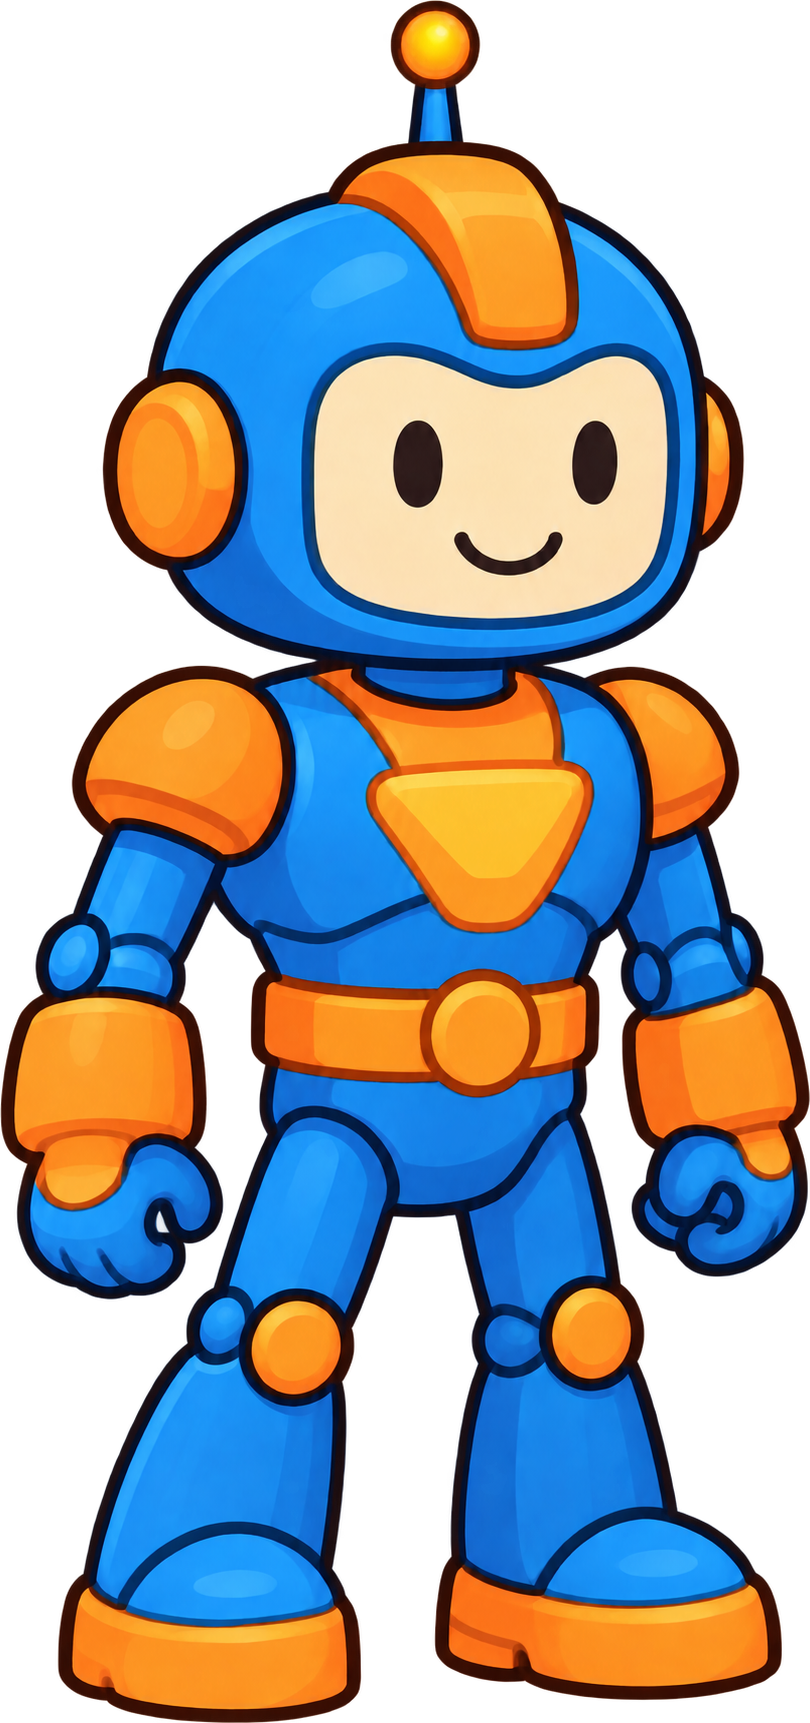
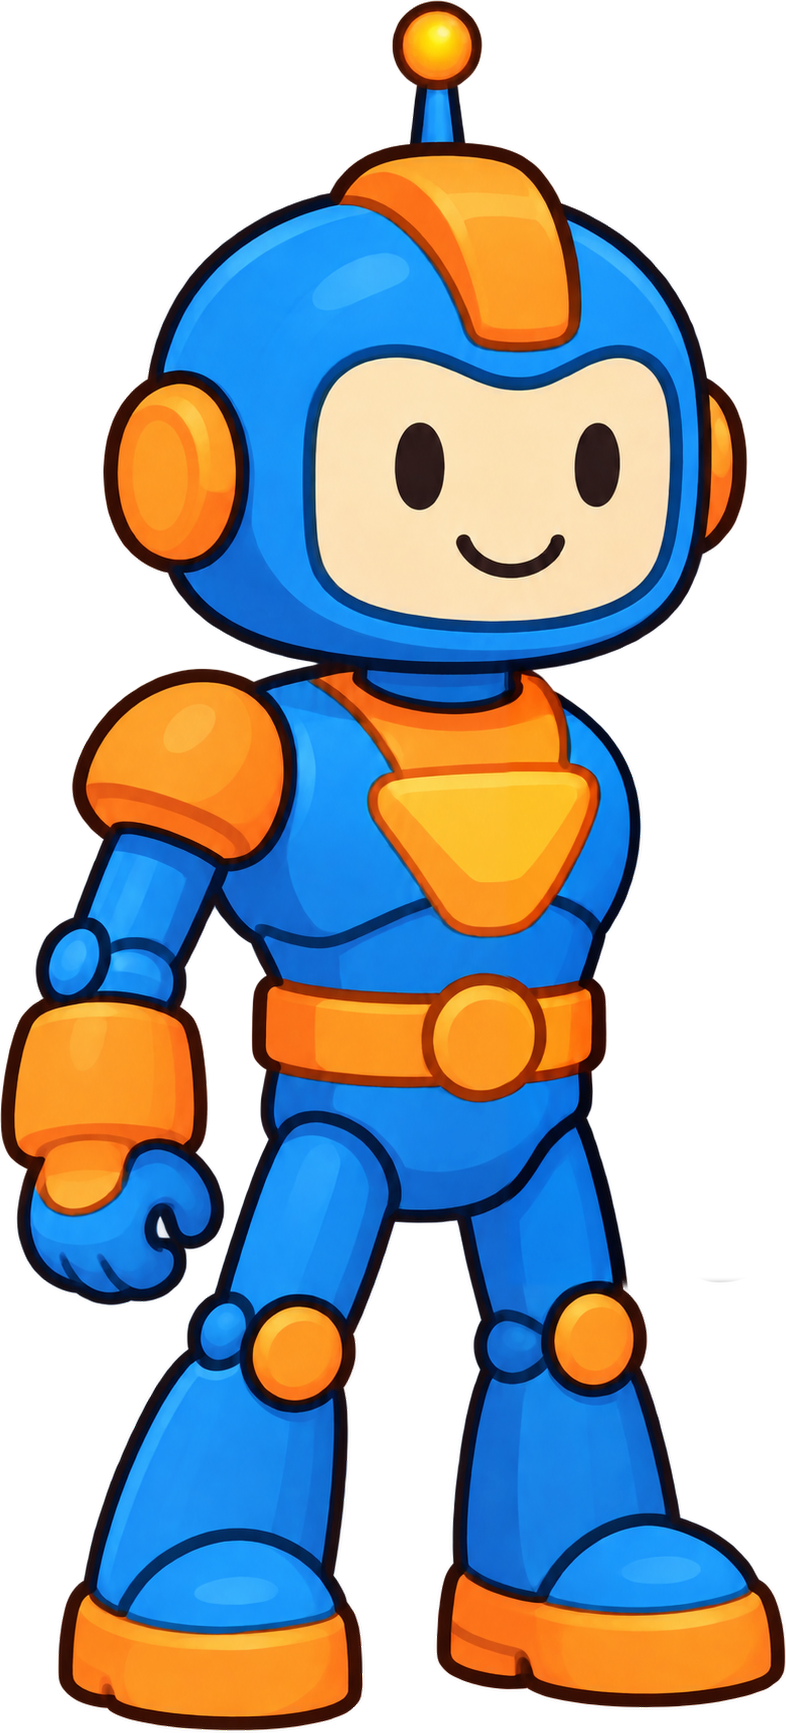
Toy box robot: arm, antenna light, blink

diff --git a/scripts/top-art/build.py b/scripts/top-art/build.py
@@ -48,7 +48,9 @@ def build(scene):
         # paint over a region of the base with the original hero's pixels (e.g. erase a baked-in tail), feathered
         bf=cfg['base_fix']; x0,y0,x1,y1=bf['region']; fe=bf.get('feather',10)
         full=np.zeros((H,W,4),np.uint8); b=piece(f"{scene}-{cfg['base']}"); full=warp_to_ref(b,register(b,ref),ref.shape).astype(np.float32)
-        src=ref.astype(np.float32); m=np.zeros((H,W),np.float32); m[y0+fe:y1-fe,x0+fe:x1-fe]=1; m=cv2.GaussianBlur(m,(0,0),fe/2.5)[:,:,None]
+        if bf.get('src'): sp=piece(f"{scene}-{bf['src']}"); src=warp_to_ref(sp,register(sp,ref),ref.shape).astype(np.float32)
+        else: src=ref.astype(np.float32)
+        m=np.zeros((H,W),np.float32); m[y0+fe:y1-fe,x0+fe:x1-fe]=1; m=cv2.GaussianBlur(m,(0,0),fe/2.5)[:,:,None]
         full=(full*(1-m)+src*m).astype(np.uint8)
         rig['base']=place_crop(full,dict(scale=1.0,tx=0.0,ty=0.0),f'{scene}-base.webp',down=False)
     for pi,p in enumerate(cfg.get('parts',[])):

diff --git a/scripts/top-art/rigs.py b/scripts/top-art/rigs.py
@@ -35,7 +35,8 @@ RIGS={
    patches=[dict(frame='eyes-open',region=(340,500,800,830),anim='peek')],
    fx=[dict(sheet='bubbles',crop=(0,0,1,.55),dil=400,x=655,y=700,w=120,at=(.5,1),align='bottom',anim='bubbles',dur=5,delay=0),
        dict(sheet='bubbles',crop=(0,0,1,.55),dil=400,x=655,y=700,w=120,at=(.5,1),align='bottom',anim='bubbles',dur=5,delay=2.5)]),
- 'toy-box':dict(base='with-antenna',
+ 'toy-box':dict(base='with-antenna',base_fix=dict(region=(520,700,850,1340),feather=8,src='no-arm'),
    parts=[dict(name='arm',base='no-arm',ref_piece=None,mode='sil',pivot=('frac',.35,.08),anim='wave')],
-   patches=[dict(frame='blink',region=(300,330,760,700),anim='blink')],),
+   patches=[dict(frame='blink',region=(300,330,760,700),anim='blink')],
+   fx=[dict(sheet='antenna-light',x=460,y=123,w=150,at=(.5,.5),anim='glow',dur=1.6,frames=[0],min_area=2000)]),
 }
